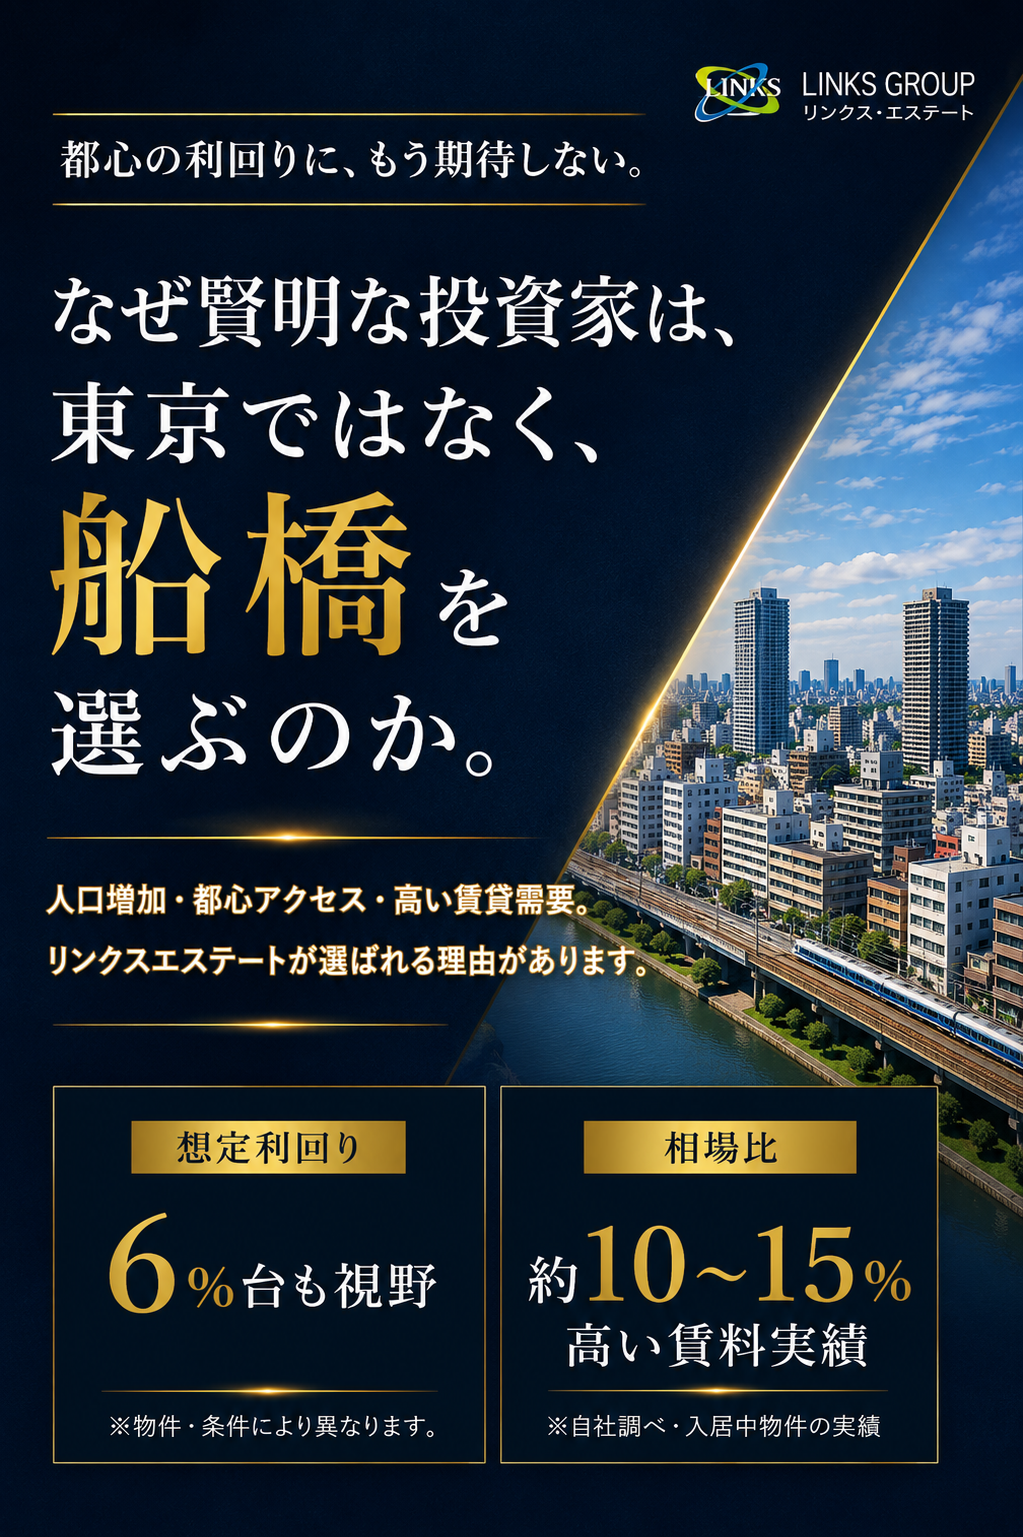
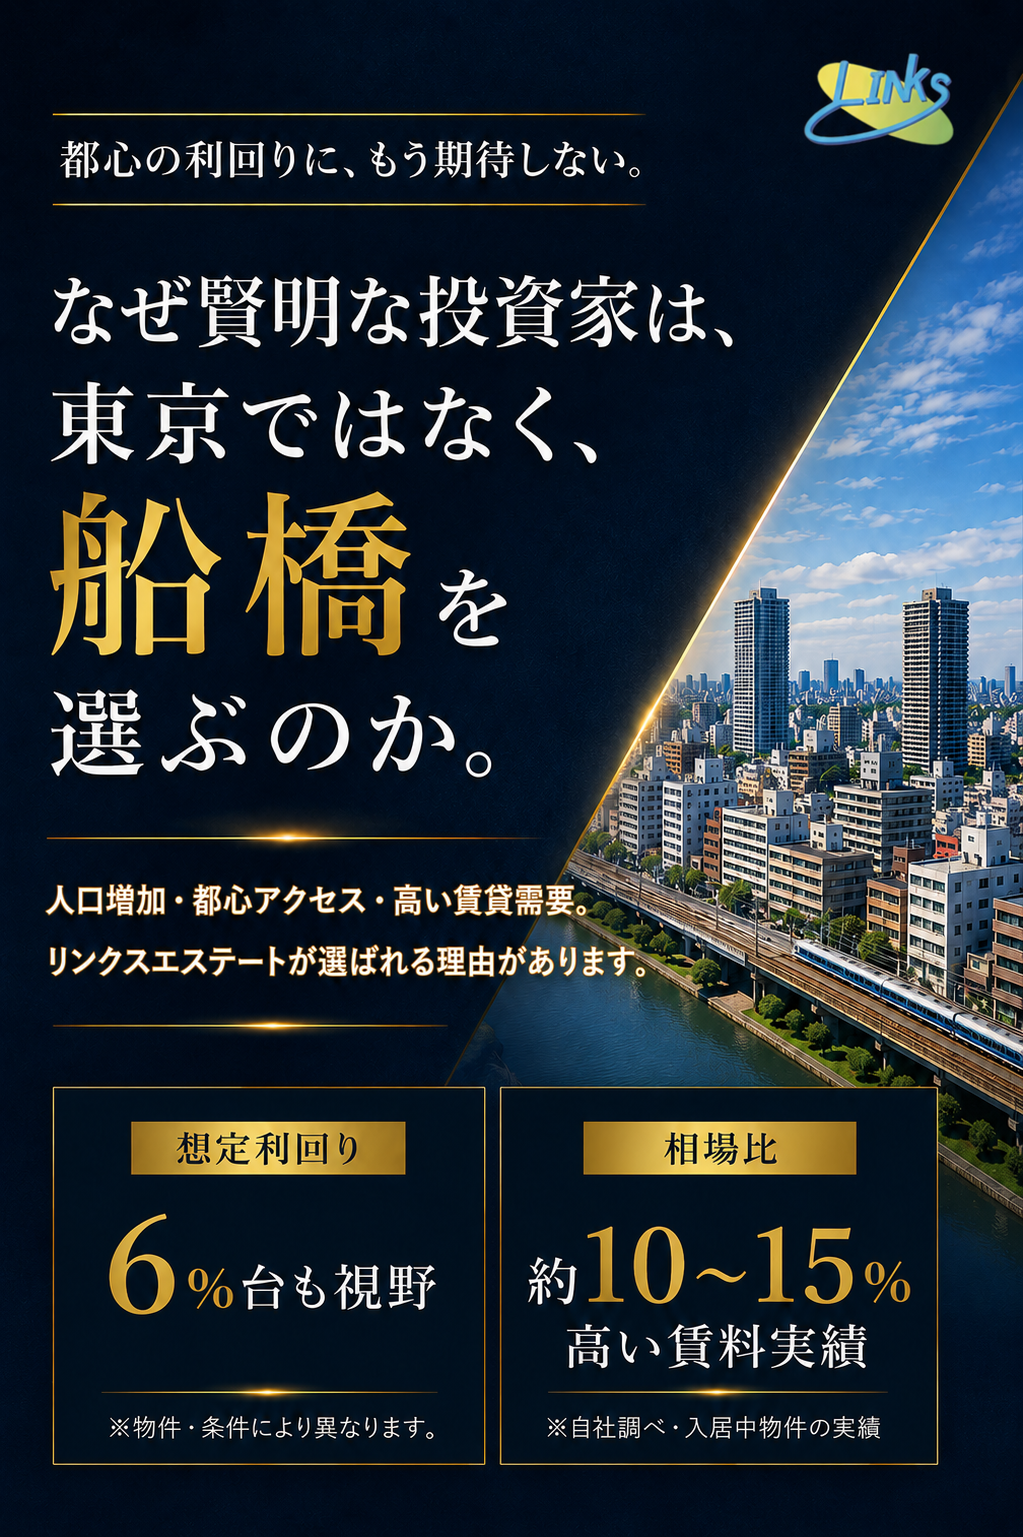
LPの画像とレイアウトを最新版に更新

diff --git a/index.html b/index.html
@@ -108,10 +108,10 @@
 
       <div class="lp__image">
         <img
-          src="./img/11.png"
+          src="./img/11-1.png?v=20260729"
           alt="船橋の不動産投資についてのご案内"
-          width="793"
-          height="1983"
+          width="811"
+          height="1939"
         >
       </div>
 
@@ -126,10 +126,10 @@
 
       <div class="lp__image">
         <img
-          src="./img/13.png"
+          src="./img/13.png?v=20260729"
           alt="船橋の不動産投資についてのご案内"
-          width="1039"
-          height="1514"
+          width="1038"
+          height="1515"
         >
       </div>
 

diff --git a/css/style.css b/css/style.css
@@ -21,7 +21,7 @@ body {
 
 .lp {
   width: 100%;
-  max-width: 675px;
+  max-width: 500px;
   margin-inline: auto;
   overflow: hidden;
 }
@@ -39,7 +39,7 @@ body {
 
 @media (min-width: 768px) {
   .lp {
-    width: 60.7vw;
+    width: 45vw;
   }
 }
 
